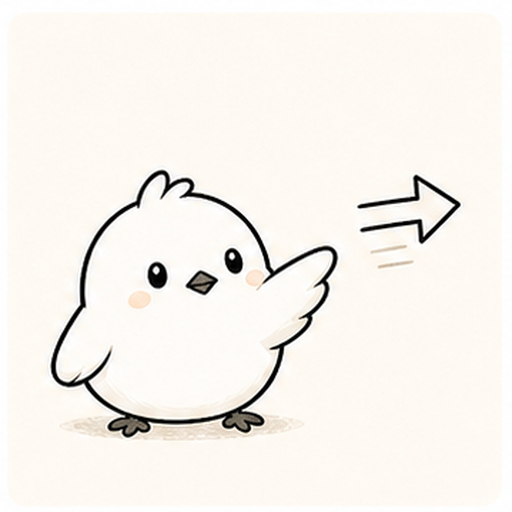
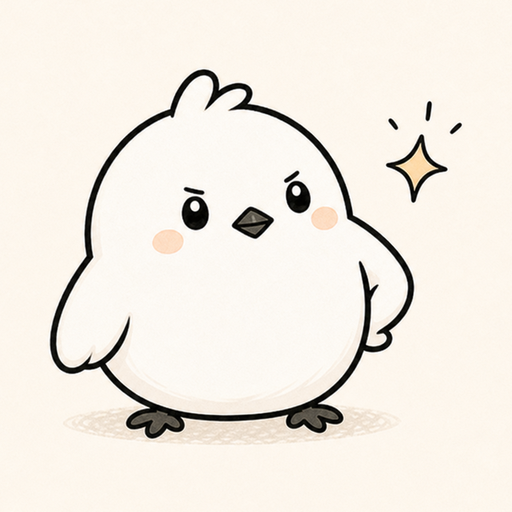
Make seventh action feel smug

diff --git a/app/main.js b/app/main.js
@@ -28,8 +28,8 @@ let chordData = [
     ukulele_fingering: "0001",
     fingering_asset: "assets/app/fingering/initial-four/ukulele_C7_vertical_strings.svg",
     character_asset: "assets/approved/characters/major.png",
-    learning_note: "つぎへ行きたくなる",
-    memory_hint: "C7は、まだ先へ行きたくなる音。7アクションの片羽の動きと、そわっと進む感じで覚えよう。",
+    learning_note: "ドヤっと決まる",
+    memory_hint: "C7は、ドヤっと決まる音。7アクションの得意げな顔と、少しにやっとする強さを一緒に覚えよう。",
     temp_audio_notes: [261.63, 329.63, 392.0, 466.16]
   },
   {
@@ -86,7 +86,7 @@ const ONE_POINT_ACCENTS = {
   },
   "7": {
     slug: "seventh",
-    title: "次へ進む矢印",
+    title: "ドヤっと決めるキラッ",
     asset: "assets/app/accents/imagegen-v1/seventh.png"
   },
   add9: {
@@ -236,7 +236,7 @@ const chordSets = {
   "initial-four": {
     id: "initial-four",
     label: "はじめの4羽",
-    description: "同じCを基準に、明るい・静か・進む・広がるを聞き分ける。",
+    description: "同じCを基準に、明るい・静か・ドヤっと・広がるを聞き分ける。",
     progressions: [],
     dataPath: useFormalCandidate
       ? "../assets/app/data/initial-four-chords.formal-candidate-001.json"
@@ -834,7 +834,7 @@ function modeDescriptionForCurrentStep(guide) {
 
   if (stageNumber === 0) {
     if (activeView === "card") {
-      return "まずCを聞く。つぎへ進んで、Cm / C7 / Cadd9のきもちを比べる。";
+      return "まずCを聞く。Cm / C7 / Cadd9のきもちを比べる。C7はドヤっと決まる感じ。";
     }
     if (activeView === "compare") {
       return "4羽を並べて聞く。同じCでも、きもちだけが変わる入口。";

diff --git a/app/index.html b/app/index.html
@@ -221,6 +221,6 @@
       </section>
     </main>
 
-    <script src="./main.js?v=20260529-integrated-actions-v2"></script>
+    <script src="./main.js?v=20260529-c7-doya"></script>
   </body>
 </html>

diff --git a/docs/ja/characters/white-bird-one-point-accent-system.md b/docs/ja/characters/white-bird-one-point-accent-system.md
@@ -39,7 +39,7 @@
 |---|---|---|---|---|
 | Major | 安定して立つ | 小さな丸いホームドット | 安心、帰る場所 | 足元中央 |
 | minor | 羽を内側へ寄せる | 内向きの小さな三日月 | 静けさ、内側へ向く | 左下 |
-| 7 | 片羽を上げる | 小さな矢印または山形 | 次へ進む、解決へ向かう | 上げた羽の先 |
+| 7 | 胸を張る | 小さなキラッ | ドヤっと決まる、少しにやっとする | 顔の横 |
 | add9 | 上を見る | 小さな一粒のきらめき | 空気が広がる、軽さ | 目線の先 |
 | m7 | 力を抜く | やわらかい小さな輪 | 余韻、ほどける | 足元横 |
 | maj7 | 遠くを見る | 透明な小ダイヤ | 透明感、上品さ | 視線の先 |
@@ -57,7 +57,7 @@
 
 - Major: ホームドット
 - minor: 小さな三日月
-- 7: 小さな矢印
+- 7: ドヤっとしたキラッ
 - add9: 一粒のきらめき
 - mM7: 細い斜めの小片
 - sus4: 浮いた小点
@@ -78,7 +78,7 @@
 
 ```text
 Cmaj7 / Fmaj7 / Amaj7 = 小ダイヤの形は同じ。色だけキー色に変える。
-C7 / G7 / A7 = 矢印の形は同じ。色だけキー色に変える。
+C7 / G7 / A7 = ドヤっとしたキラッの形は同じ。色だけキー色に変える。
 CmM7 / FmM7 = 斜め小片の形は同じ。色だけキー色に変える。
 ```
 
